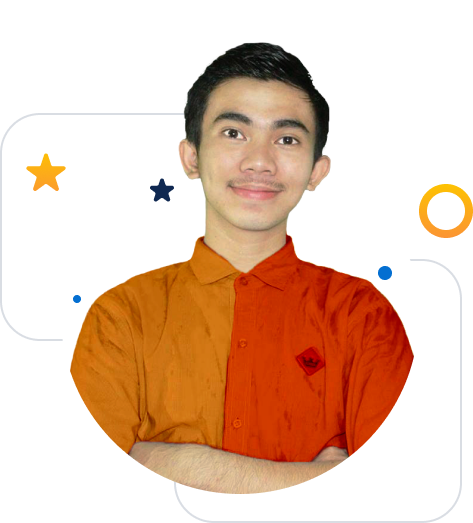
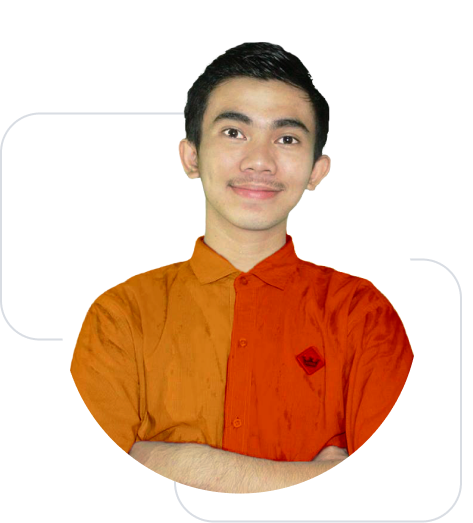
add animation

diff --git a/css/portfolio-2.css b/css/portfolio-2.css
@@ -102,6 +102,63 @@ body.light .main-header {
   padding: 2rem 0;
 }
 
+body.light .main-header .hero {
+  position: relative;
+}
+
+body.light .main-header .hero .hero-item {
+  width: 100%;
+  height: 100%;
+  background-repeat: no-repeat;
+  position: absolute;
+  -webkit-animation: upDown 2s ease-in-out infinite;
+          animation: upDown 2s ease-in-out infinite;
+}
+
+body.light .main-header .hero .hero-item.star-1 {
+  top: 0;
+  left: 0;
+  background-position: 26px 153px;
+}
+
+body.light .main-header .hero .hero-item.star-2 {
+  left: 0;
+  bottom: 0;
+  background-position: 389px 448px;
+}
+
+body.light .main-header .hero .hero-item.star-3 {
+  top: 0;
+  left: 0;
+  background-position: 149px 177px;
+}
+
+body.light .main-header .hero .hero-item.dot-1 {
+  top: 0;
+  left: 0;
+  background-position: 74px 302px;
+}
+
+body.light .main-header .hero .hero-item.dot-2 {
+  left: 0;
+  top: 0;
+  background-position: 105px 133px;
+}
+
+body.light .main-header .hero .hero-item.dot-3 {
+  top: 0;
+  left: 0;
+  background-position: 374px 257px;
+}
+
+body.light .main-header .hero .hero-item.circle-1 {
+  top: 0;
+  left: 0;
+  background-position: 414px 184px;
+  -webkit-animation: rotate360 2s ease-in-out infinite;
+          animation: rotate360 2s ease-in-out infinite;
+}
+
 body.light .main-header .navbar .navbar-nav .nav-item {
   padding-left: 2rem;
 }
@@ -306,6 +363,19 @@ body.light .section-works-content::before {
   position: absolute;
   top: -150px;
   left: -150px;
+  width: 100%;
+  height: 100%;
+  display: block;
+  z-index: -2;
+}
+
+body.light .section-works-content::after {
+  content: '';
+  background-image: url("../img/blue-circle.png");
+  background-repeat: no-repeat;
+  background-position: 113% 56px;
+  position: absolute;
+  bottom: 0;
   width: 100%;
   height: 100%;
   display: block;
@@ -1314,6 +1384,66 @@ body.light .tooltip-inner {
   }
   100% {
     background-position: right;
+  }
+}
+
+@-webkit-keyframes upDown {
+  0% {
+    -webkit-transform: translateY(-10px);
+            transform: translateY(-10px);
+  }
+  50% {
+    -webkit-transform: translateY(0px);
+            transform: translateY(0px);
+  }
+  100% {
+    -webkit-transform: translateY(-10px);
+            transform: translateY(-10px);
+  }
+}
+
+@keyframes upDown {
+  0% {
+    -webkit-transform: translateY(-10px);
+            transform: translateY(-10px);
+  }
+  50% {
+    -webkit-transform: translateY(0px);
+            transform: translateY(0px);
+  }
+  100% {
+    -webkit-transform: translateY(-10px);
+            transform: translateY(-10px);
+  }
+}
+
+@-webkit-keyframes rotate360 {
+  0% {
+    -webkit-transform: rotate(360deg);
+            transform: rotate(360deg);
+  }
+  50% {
+    -webkit-transform: rotate(0deg);
+            transform: rotate(0deg);
+  }
+  100% {
+    -webkit-transform: rotate(360deg);
+            transform: rotate(360deg);
+  }
+}
+
+@keyframes rotate360 {
+  0% {
+    -webkit-transform: rotate(360deg);
+            transform: rotate(360deg);
+  }
+  50% {
+    -webkit-transform: rotate(0deg);
+            transform: rotate(0deg);
+  }
+  100% {
+    -webkit-transform: rotate(360deg);
+            transform: rotate(360deg);
   }
 }
 /*# sourceMappingURL=portfolio-2.css.map */

diff --git a/sass/portfolio-2.scss b/sass/portfolio-2.scss
@@ -104,6 +104,52 @@ body.light{
     .main-header{
         background: linear-gradient(180deg, #006ACA 0%, #1081E8 100%);
         padding: 2rem 0;
+        .hero{
+            position: relative;
+            .hero-item{
+                width: 100%;
+                height: 100%;
+                background-repeat: no-repeat;
+                position: absolute;
+                animation: upDown 2s ease-in-out infinite;
+                &.star-1{
+                    top: 0;
+                    left: 0;
+                    background-position: 26px 153px;
+                }
+                &.star-2{
+                    left: 0;
+                    bottom: 0;
+                    background-position: 389px 448px;
+                }
+                &.star-3{
+                    top: 0;
+                    left: 0;
+                    background-position: 149px 177px;
+                }
+                &.dot-1{
+                    top: 0;
+                    left: 0;
+                    background-position: 74px 302px;
+                }
+                &.dot-2{
+                    left: 0;
+                    top: 0;
+                    background-position: 105px 133px;
+                }
+                &.dot-3{
+                    top: 0;
+                    left: 0;
+                    background-position: 374px 257px;
+                }
+                &.circle-1{
+                    top: 0;
+                    left: 0;
+                    background-position: 414px 184px;
+                    animation: rotate360 2s ease-in-out infinite;
+                }
+            }
+        }
         .navbar{
             .navbar-nav{
                 .nav-item{
@@ -114,7 +160,6 @@ body.light{
                 }
             }
         }
-        
         &.aboutme{
             // background-image: linear-gradient(45deg, rgba(16,129,232,1) 0%, rgba(0,77,150,1) 50%, rgba(16,129,232,1) 100%);
             background-size: 450%;
@@ -260,6 +305,19 @@ body.light{
             position: absolute;
             top: -150px;
             left: -150px;
+            width: 100%;
+            height: 100%;
+            display: block;
+            z-index: -2;
+        }
+        &::after{
+            content: '';
+            background-image: url("../img/blue-circle.png");
+            background-repeat: no-repeat;
+            // background-size: contain;
+            background-position: 113% 56px;
+            position: absolute;
+            bottom: 0;
             width: 100%;
             height: 100%;
             display: block;
@@ -1160,12 +1218,34 @@ body.light{
     } 
 }
 
-// Animate 
+// =========================Animate========================= 
 @keyframes bg-animate {
     0%{
         background-position: left;
     }
     100%{
         background-position: right;
+    }
+}
+@keyframes upDown {
+    0%{
+        transform: translateY(-10px);
+    }
+    50%{
+        transform: translateY(0px);
+    }
+    100%{
+        transform: translateY(-10px);
+    }
+}
+@keyframes rotate360 {
+    0%{
+        transform: rotate(360deg);
+    }
+    50%{
+        transform: rotate(0deg);
+    }
+    100%{
+        transform: rotate(360deg);
     }
 }

diff --git a/index.html b/index.html
@@ -80,7 +80,16 @@
                 </div>
                 <div
                     class="col-12 col-lg-6 hero d-flex justify-content-center justify-content-lg-end order-1 order-lg-2">
-                    <img src="img/hero.png" class="img-fluid hero" alt="hero image">
+                    <div class="hero">
+                        <img src="img/hero.png" class="img-fluid hero" alt="hero image">
+                        <div class="hero-item star-1" style="background-image: url('img/icon/Star1.svg');"></div>
+                        <div class="hero-item star-2" style="background-image: url('img/icon/Star2.svg');"></div>
+                        <div class="hero-item star-3" style="background-image: url('img/icon/Star3.svg');"></div>
+                        <div class="hero-item dot-1" style="background-image: url('img/icon/Dot1.svg');"></div>
+                        <div class="hero-item dot-2" style="background-image: url('img/icon/Dot2.svg');"></div>
+                        <div class="hero-item dot-3" style="background-image: url('img/icon/Dot3.svg');"></div>
+                        <div class="hero-item circle-1" style="background-image: url('img/icon/Circle1.svg');"></div>
+                    </div>
                 </div>
             </div>
         </div>
